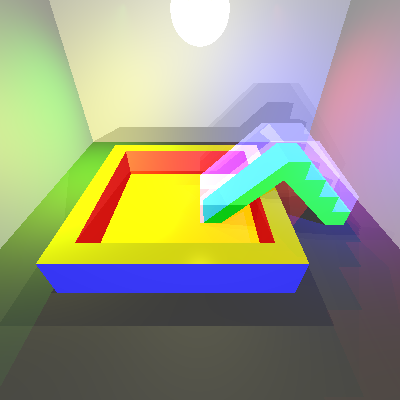
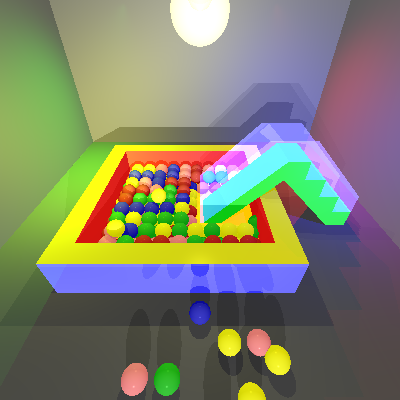
try to add multithreading, continue thw image.

diff --git a/unitTests/renderer/FinalTest.java b/unitTests/renderer/FinalTest.java
@@ -26,9 +26,19 @@ public class FinalTest {
         }
     }
 
+    /**
+     * class for pool of balls
+     */
     class BallsPool extends Geometries {
         Point center;
-        BallsPool(Point _center, Material m) {
+
+        /**
+         * constructor for building balls pool.
+         * @param _center center of the pool
+         * @param m material of the pool
+         * @param mBlue material of the blue side.
+         */
+        BallsPool(Point _center, Material m, Material mBlue) {
             super();
             center = _center;
             Point b1 = center.add(new Vector(-50, -50, 0)), b2 = center.add(new Vector(50, -50, 0)), b3 = center.add(new Vector(50, 50, 0)), b4 = center.add(new Vector(-50, 50, 0));
@@ -38,11 +48,11 @@ public class FinalTest {
             Color red = new Color(200, 10, 10);
             Color blue = new Color(10, 10, 200);
             Color yellow = new Color(180, 180, 0);
-            super.add(new Rec(b1, b2, b3, b4, blue, m),
-                    new Rec(b1, b2, u2, u1, blue, m),
-                    new Rec(b3, b2, u2, u3, blue, m),
-                    new Rec(b3, b4, u4, u3, blue, m),
-                    new Rec(b1, b4, u4, u1, blue, m),
+            super.add(new Rec(b1, b2, b3, b4, blue, mBlue),
+                    new Rec(b1, b2, u2, u1, blue, mBlue),
+                    new Rec(b3, b2, u2, u3, blue, mBlue),
+                    new Rec(b3, b4, u4, u3, blue, mBlue),
+                    new Rec(b1, b4, u4, u1, blue, mBlue),
                     new Rec(bi1, bi2, bi3, bi4, new Color(ORANGE), m),
                     new Rec(u1, u2, ui2, ui1, yellow, m),
                     new Rec(u3, u2, ui2, ui3, yellow, m),
@@ -66,8 +76,18 @@ public class FinalTest {
         }
     }
 
+    /**
+     * class for slide
+     */
     class Slide extends Geometries {
         Point center;
+
+        /**
+         * constructor for build slide.
+         * @param _center the center of the slide
+         * @param material the material o the slide
+         * @param railM the material of the rail of the slide
+         */
         Slide(Point _center, Material material, Material railM) {
             super();
             center = _center;
@@ -168,8 +188,22 @@ public class FinalTest {
         }
     }
 
+    /**
+     * class for grid of balls
+     */
     class BallsGrid extends Geometries {
         Point start;
+
+        /**
+         * constructor for building grid of balls
+         * @param _start the corner that we start from
+         * @param v1 vector of the first direction of the grid
+         * @param v2 vector of the second direction of the grid
+         * @param size1 amount of balls in the first direction of the grid
+         * @param size2 amount of balls in the second direction of the grid
+         * @param radius radius of the balls
+         * @param material material of the balls
+         */
         BallsGrid(Point _start, Vector v1, Vector v2, int size1, int size2, double radius, Material material) {
             start = _start;
             v1.normalize();
@@ -184,19 +218,35 @@ public class FinalTest {
         }
         @Override
         public void createBoundingBox() {
-            double minX = start.getX() - 40
-                    ,minY = start.getY() - 10
-                    ,minZ = start.getZ()
-                    ,maxX = start.getX() + 40
-                    ,maxY = start.getY() + 10
-                    ,maxZ = start.getZ() + 50;
+            double minX =  - 40
+                    ,minY = -40
+                    ,minZ = start.getZ()-4
+                    ,maxX = 40
+                    ,maxY = 40
+                    ,maxZ = start.getZ() +4;
             box = new BoundingBox(new Point(minX, minY, minZ), new Point(maxX, maxY, maxZ));
         }
 
     }
 
+    /**
+     * class for grid of Rhombuses
+     */
     class RhombusesGrid extends Geometries {
         Point start;
+
+        /**
+         * constructor for building grid of rhombuses
+         * @param _start the corner that we start from
+         * @param v1 vector of the first direction of the grid
+         * @param v2 vector of the second direction of the grid
+         * @param size1 size of the rhombus
+         * @param size2 size of the rhombus
+          * @param areaSize1 size of the area
+         * @param areaSize2 size of the area
+         * @param color color of the rhombuses
+         * @param material material of the balls
+         */
         RhombusesGrid(Point _start, Vector v1, Vector v2, int size1, int size2, int areaSize1, int areaSize2,  Color color, Material material) {
             start = _start;
             v1=v1.normalize().scale(size1/2);
@@ -212,18 +262,22 @@ public class FinalTest {
         }
         @Override
         public void createBoundingBox() {
-            double minX = start.getX() - 40
-                    ,minY = start.getY() - 10
-                    ,minZ = start.getZ()
-                    ,maxX = start.getX() + 40
-                    ,maxY = start.getY() + 10
-                    ,maxZ = start.getZ() + 50;
+            double minX = -Math.abs(start.getX())
+                    ,minY = -Math.abs(start.getY())
+                    ,minZ = 0
+                    ,maxX = Math.abs(start.getX())
+                    ,maxY = Math.abs(start.getY())
+                    ,maxZ = 100;
             box = new BoundingBox(new Point(minX, minY, minZ), new Point(maxX, maxY, maxZ));
 
         }
     }
 
 
+    /**
+     * random color for ball
+     * @return color
+     */
     Color randColor() {
         List<Color> colors = new LinkedList<Color>();
         colors.add(new Color(200, 200, 0));
@@ -238,41 +292,76 @@ public class FinalTest {
 
     @Test
     public void BallsPool() {
-        Color wallE = new Color(GRAY);
+        //colors
+        Color wallE = new Color(70,70,70);
         Color yellowLight = new Color(250, 250, 10);
         Color blue = new Color(10, 10, 300);
         Color yellow = new Color(180, 180, 0);
 
+        //materials
         Material wallM = new Material().setKd(0.5).setKs(0.5).setShininess(5);
         Material poolM = new Material().setKd(0.7).setKs(0.8).setShininess(150);
+        Material blueM = new Material().setKd(0.7).setKs(0.8).setShininess(150).setKr(0.5);
         Material railM = new Material().setKd(0.7).setKs(0.8).setShininess(50).setKt(0.75);
-
-        Point lightPlace = new Point(0, 0, 96);
 
         Scene scene = new Scene("pool");
         Camera camera = new Camera(new Point(0, -200, 50), new Vector(0, 10, -1), new Vector(0, 1, 10)) //
-                .setVPSize(250, 250).setVPDistance(200);//.multiThreadingOn();
+                .setVPSize(500, 500).setVPDistance(200).antiAliasingOn(5, true);//.multiThreadingOn();
         Camera cameraUp = new Camera(new Point(0, -100, 90), new Vector(0, 10, -8), new Vector(0, 8, 10)) //
                 .setVPSize(300, 300).setVPDistance(170);//.multiThreadingOn();
+
+        //walls
         scene.geometries.add(new Plane(new Point(0, 100, 0), new Vector(0, -1, 0)).setEmission(wallE).setMaterial(wallM));
         scene.geometries.add(new Plane(new Point(100, 0, 0), new Vector(-1, 0, 0)).setEmission(wallE).setMaterial(wallM));
         scene.geometries.add(new Plane(new Point(-100, 0, 0), new Vector(1, 0, 0)).setEmission(wallE).setMaterial(wallM));
         scene.geometries.add(new Plane(new Point(0, 0, 0), new Vector(0, 0, 1)).setEmission(new Color(50, 50, 50)).setMaterial(wallM));
-        scene.geometries.add(new Plane(new Point(0, 0, 100), new Vector(0, 0, -1)).setEmission(new Color(180, 180, 180)).setMaterial(wallM));
-        //scene.geometries.add(new RhombusesGrid(new Point(-99.9,99.9,99.9), new Vector(1,0,0), new Vector(0,0,-1), 10, 20, 200, 200, new Color(50, 50, 50), new Material().setKr(0.9).setShininess(10).setKs(0.5).setKd(0.5)));
+        scene.geometries.add(new Plane(new Point(0, 0, 100), new Vector(0, 0, -1)).setEmission(wallE).setMaterial(wallM));
+
+        //rhombuses on the walls
+        scene.geometries.add(new RhombusesGrid(new Point(-99.9,99.9,99.9), new Vector(1,0,0), new Vector(0,0,-1), 10, 20, 200, 200,
+                new Color(50, 50, 50), new Material().setShininess(10).setKs(0.5).setKd(0.5)));
+        scene.geometries.add(new RhombusesGrid(new Point(99.9,99.9,99.9), new Vector(0,-1,0), new Vector(0,0,-1), 10, 20, 300, 200, new Color(50, 50, 50),
+                new Material().setShininess(10).setKs(0.5).setKd(0.5)));
+        scene.geometries.add(new RhombusesGrid(new Point(-99.9,99.9,99.9), new Vector(0,-1,0), new Vector(0,0,-1), 10, 20, 300, 200,
+                new Color(50, 50, 50), new Material().setShininess(10).setKs(0.5).setKd(0.5)));
         //scene.geometries.add(new Floor(new Point(-100, 100, 0.1), new Vector(1,0,0), new Vector(0,-1,0), 20, 200, 200, wallE, wallM));
 
+        //balls
         //scene.geometries.add(new BallsPool(new Point(0,0,0), poolM));
-        //scene.geometries.add(new BallsGrid(new Point(28, 28, 3), new Vector(-1, 0, 0), new Vector(0, -1, 0), 11, 11, 2.5, poolM));
-        //scene.geometries.add(new BallsGrid(new Point(25.5, 25.5, 6.25), new Vector(-1, 0, 0), new Vector(0, -1, 0), 10, 10, 2.5, poolM));
-        //scene.geometries.add(new BallsGrid(new Point(0, 23, 10.5), new Vector(-1, 0, 0), new Vector(0, -1, 0), 5, 8, 2.5, poolM));
+        scene.geometries.add(new BallsGrid(new Point(-50, -40, 4), new Vector(1, 0, 0), new Vector(0, 1, 0), 6, 10, 4, poolM));
+        scene.geometries.add(new BallsGrid(new Point(30, 40, 4), new Vector(-1, 0, 0), new Vector(0, -1, 0), 4, 3, 4, poolM));
+        scene.geometries.add(new BallsGrid(new Point(30, -40, 4), new Vector(-1, 0, 0), new Vector(0, 1, 0), 4, 3, 4, poolM));
+        scene.geometries.add(new BallsGrid(new Point(-46, -36, 10), new Vector(1, 0, 0), new Vector(0, 1, 0), 5, 9, 4, poolM));
+        scene.geometries.add(new BallsGrid(new Point(26, 36, 10), new Vector(-1, 0, 0), new Vector(0, -1, 0), 4, 2, 4, poolM));
+        scene.geometries.add(new BallsGrid(new Point(26, -36, 10), new Vector(-1, 0, 0), new Vector(0, 1, 0), 4, 2, 4, poolM));
+        scene.geometries.add(new Sphere(new Point(-38, -28, 16), 4).setEmission(randColor()).setMaterial(poolM));
+        scene.geometries.add(new Sphere(new Point(-22, -4, 16), 4).setEmission(randColor()).setMaterial(poolM));
+        scene.geometries.add(new Sphere(new Point(30, 12, 16), 4).setEmission(randColor()).setMaterial(poolM));
 
-        scene.geometries.add(new BallsPool(new Point(-10, 0, 0), poolM));
+        scene.geometries.add(new Sphere(new Point(60, -40, 4), 4).setEmission(randColor()).setMaterial(poolM));
+        scene.geometries.add(new Sphere(new Point(70, -50, 4), 4).setEmission(randColor()).setMaterial(poolM));
+        scene.geometries.add(new Sphere(new Point(65, -30, 4), 4).setEmission(randColor()).setMaterial(poolM));
+
+        scene.geometries.add(new Sphere(new Point(0, -60, 4), 4).setEmission(randColor()).setMaterial(poolM));
+        scene.geometries.add(new Sphere(new Point(20, -65, 4), 4).setEmission(randColor()).setMaterial(poolM));
+        scene.geometries.add(new Sphere(new Point(25, -75, 4), 4).setEmission(randColor()).setMaterial(poolM));
+        scene.geometries.add(new Sphere(new Point(-20, -85, 4), 4).setEmission(randColor()).setMaterial(poolM));
+        scene.geometries.add(new Sphere(new Point(15, -85, 4), 4).setEmission(randColor()).setMaterial(poolM));
+        scene.geometries.add(new Sphere(new Point(10, -70, 4), 4).setEmission(randColor()).setMaterial(poolM));
+        scene.geometries.add(new Sphere(new Point(-10, -80, 4), 4).setEmission(randColor()).setMaterial(poolM));
+        scene.geometries.add(new Sphere(new Point(5, -90, 4), 4).setEmission(randColor()).setMaterial(poolM));
+        scene.geometries.add(new Sphere(new Point(10, -100, 4), 4).setEmission(randColor()).setMaterial(poolM));
+        scene.geometries.add(new Sphere(new Point(-10, -110, 4), 4).setEmission(randColor()).setMaterial(poolM));
+        scene.geometries.add(new Sphere(new Point(5, -120, 4), 4).setEmission(randColor()).setMaterial(poolM));
+        scene.geometries.add(new Sphere(new Point(30, -12, 4), 4).setEmission(randColor()).setMaterial(poolM));
+
+        Point lightPlace = new Point(0, 0, 96);
+        scene.geometries.add(new BallsPool(new Point(-10, 0, 0), poolM, blueM));
         scene.geometries.add(new Slide(new Point(40, 0, 0), poolM, railM));
         scene.geometries.add(new Sphere(lightPlace, 4).setEmission(yellow).setMaterial(new Material().setKd(0.5).setKs(0.5).setShininess(50).setKt(0.85)));
         scene.geometries.add(new Sphere(lightPlace.subtract(new Vector(0, 0, 4)), 10).setEmission(new Color(50, 50, 35)).setMaterial(new Material().setKd(0.5).setKs(0.5).setShininess(50).setKt(0.9)));
 
-
+        //lights
         scene.lights.add(new SpotLight(new Color(RED), new Point(50, 99, 99), new Vector(50, -50, -100)).setNarrowBeam(5).setKl(0.0001).setKq(0.00001));
         scene.lights.add(new SpotLight(new Color(GREEN), new Point(-50, 99, 99), new Vector(-50, -50, -100)).setNarrowBeam(5).setKl(0.0001).setKq(0.00001));
         scene.lights.add(new SpotLight(blue, new Point(50, -50, 99), new Vector(50, 99, -100)).setNarrowBeam(5).setKl(0.0001).setKq(0.00001));
@@ -280,14 +369,16 @@ public class FinalTest {
         scene.lights.add(new PointLight(new Color(40, 40, 20), lightPlace));
         scene.lights.add(new PointLight(new Color(70, 70, 70), new Point(0, -200, 50)));
         //scene.softShadowOn(7, 3);
-        camera.setImageWriter(new ImageWriter("ballsPool", 500, 500))
+
+        //render images
+        camera.setImageWriter(new ImageWriter("ballsPool3", 500, 500))
                 .setRayTracer(new RayTracerBasic(scene))
                 .renderImage();
         camera.writeToImage();
-        cameraUp.setImageWriter(new ImageWriter("ballsPoolUp", 400, 400))
-                .setRayTracer(new RayTracerBasic(scene))
-                .renderImage();
-        cameraUp.writeToImage();
+        //cameraUp.setImageWriter(new ImageWriter("ballsPoolUp", 400, 400))
+        //        .setRayTracer(new RayTracerBasic(scene))
+        //        .renderImage();
+        //cameraUp.writeToImage();
     }
 
 }
